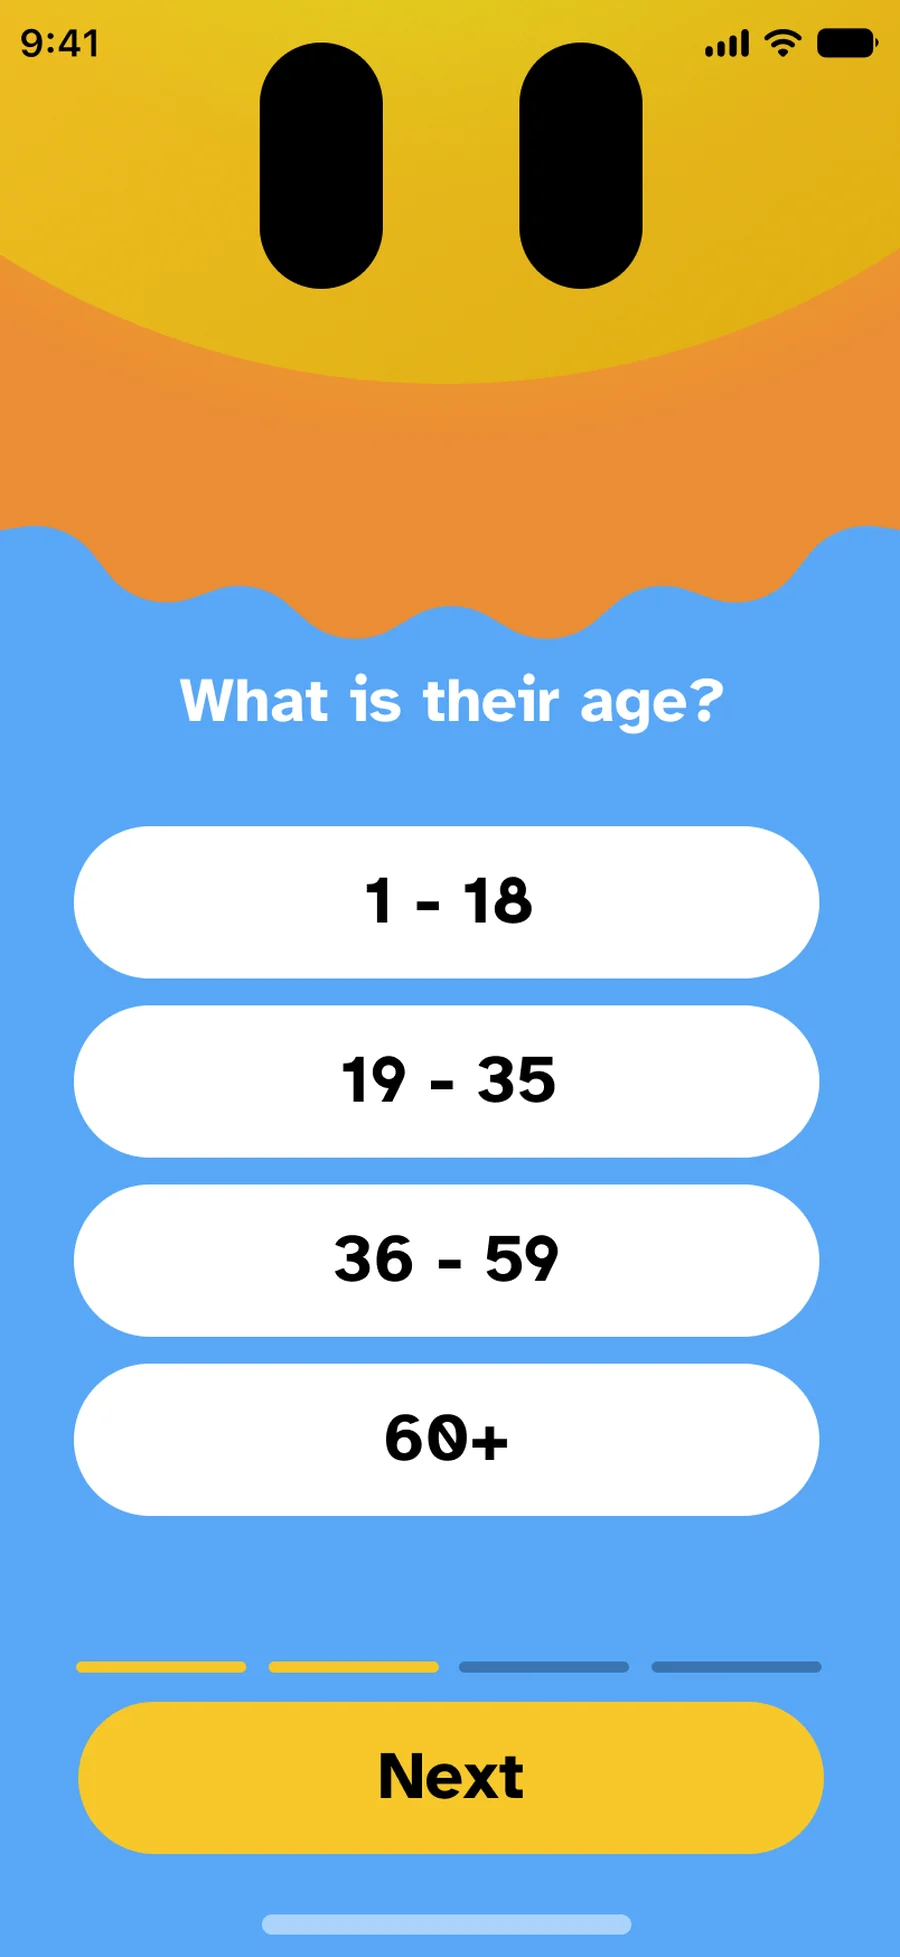
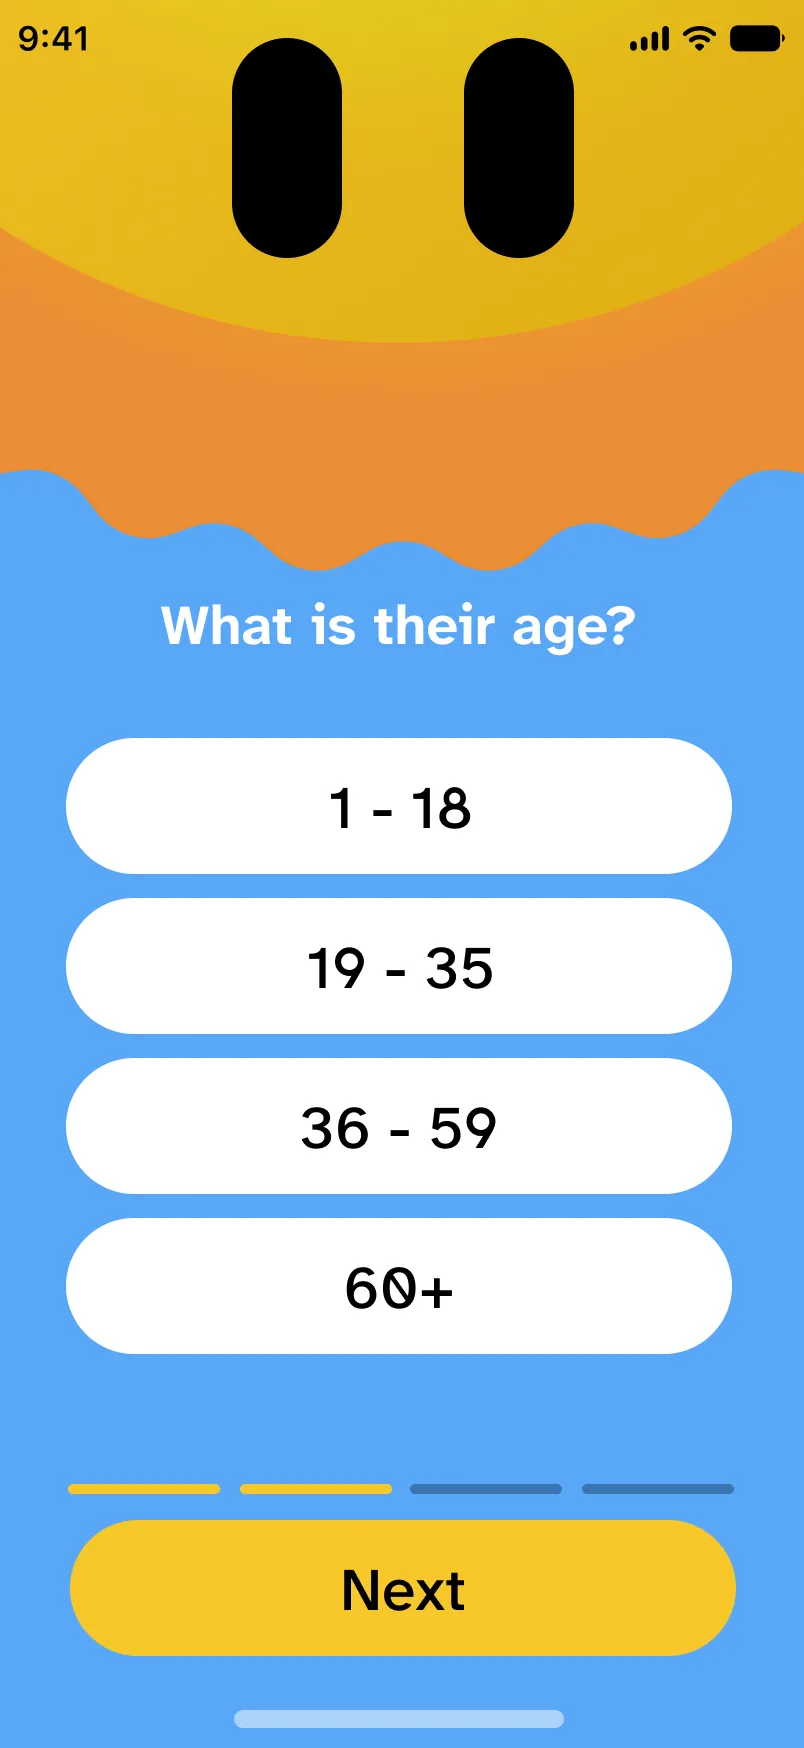
Correcting some things in the case study

diff --git a/app/case/apollo/page.tsx b/app/case/apollo/page.tsx
@@ -452,7 +452,7 @@ export default function CasePage() {
             </p>
             <p>
               <span className={STEP}>Type and panels:</span> Type and panels: my first text style was mustard-yellow lettering,
-              and it looked amateur, closer to a Roblox text box than to a helper someone trusts with a purchase. I switched to Atkinson Hyperlegible,
+              and it looked amateur, closer to a Roblox text box than to a helper someone trusts with a purchase. I switched to Atkinson Hyperlegible Next,
               designed by the Braille Institute so similar letters (I, l, 1; O, 0) stay distinct for low-vision readers.
               Buttons went from yellow to black with white text, which also unified answer and
               guide windows. Contrast targets follow WCAG: 4.5:1 for text, 3:1 for icons.
